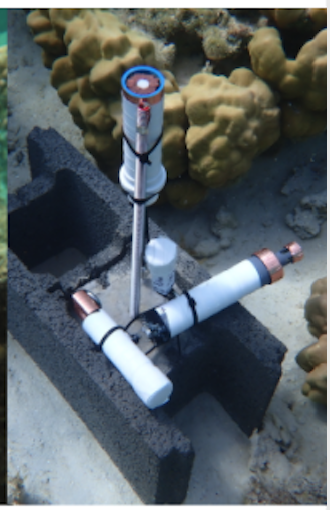
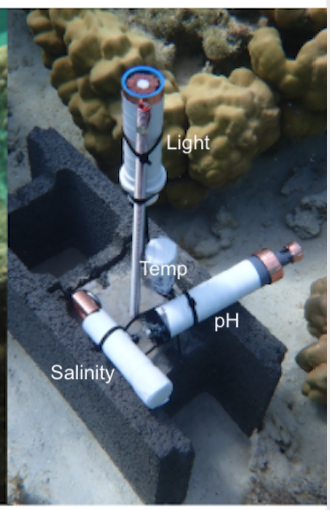
added correct sensor deployment image

diff --git a/2020-01-11-Logger_Protocol.md b/2020-01-11-Logger_Protocol.md
@@ -139,4 +139,4 @@ No need to calibrate temperature probe in between time points.
 
 # E5 sensor deployment
 
-![loggers](https://github.com/urol-e5/protocols/blob/master/images/logger_field.JPG?raw=true)
+![loggers](https://github.com/urol-e5/protocols/blob/master/images/correct_sensor_deployment.png?raw=true)
